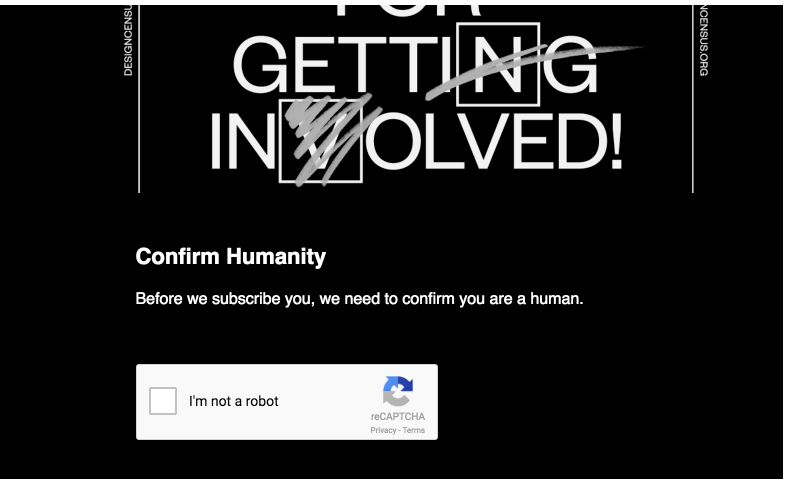
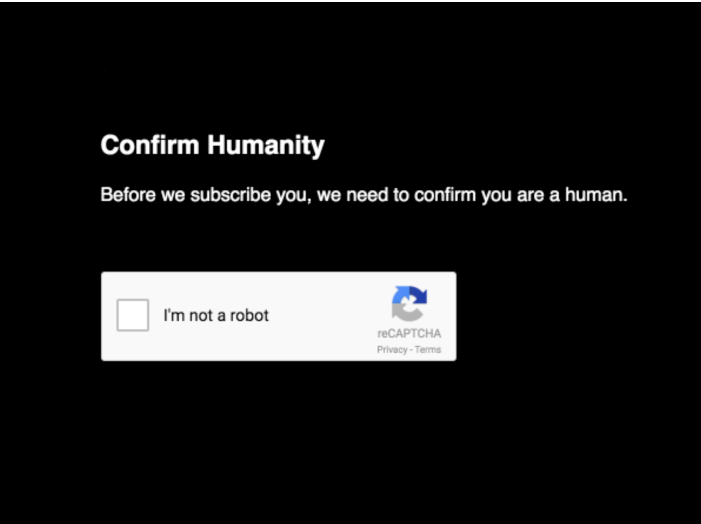
Updates to presentation

Changed region(s): [[0.0, 0.0, 1.0, 1.0], [0.1198, 0.5, 0.7489, 0.6875], [0.1498, 0.75, 0.5692, 0.9375]]

diff --git a/index.html b/index.html
@@ -131,6 +131,12 @@
 						<li>... what else?</li>
 					</ul>
 				</section>
+				<section data-background-color="#111">
+					<img src="15.png" class="plain"/>
+				</section>
+				<section data-background-color="#111">
+					<img src="16.png" class="plain"/>
+				</section>
 				<section>
 					<h3>Have a conversation with the user.</h3>
 					<h4>Treat them just like you want to be treated.</h4>
